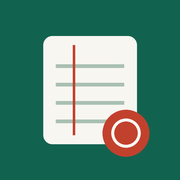
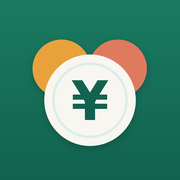
前回の支払方法を自動で選ぶ、金額の足し算、予算80%の警告、新しいアイコンと起動画面、いいね・コメントのお知らせ、グループ目標
Claude-Session: https://claude.ai/code/session_0134b7ufawgALHUwocdjU91r

Changed region(s): [[0.1667, 0.1944, 0.8333, 0.8889]]

diff --git a/app.js b/app.js
@@ -50,6 +50,8 @@ const catOf = (id) => {
   return { id: id || "その他", g: (id || "他").slice(0, 1), c: 8, subs: ["その他"] }; // a friend's own category
 };
 // New records are public unless the user turned the default off in 共有設定.
+// "1200+350" → 1550 (the keypad's + key lets you add several amounts)
+const amtVal = (v) => String(v || "").split("+").reduce((a, t) => a + (Number(t) || 0), 0);
 const defPub = () => true; // every record is shared with the group (except categories set to 「共有しない」)
 const PAYS = ["現金", "クレジットカード", "PayPay", "交通系IC", "電子マネー", "デビット", "口座振替", "その他"];
 const TIME_PRESETS = [["朝", "08:00"], ["昼", "12:30"], ["おやつ", "15:00"], ["夜", "19:00"], ["深夜", "23:00"]];
@@ -238,7 +240,7 @@ function demoStore() {
   const pub = {}, priv = {}, prefs = { me: { budget: 90000, catBudgets: { 食費: 35000, 交通費: 8000, 娯楽: 12000, 日用品: 6000 }, noSpend: [],
     favs: [{ c: "食費", s: "昼ごはん", m: "", sh: "社食", a: 450, p: "現金" }, { c: "交通費", s: "電車", m: "", sh: "JR", a: 0, p: "交通系IC" }, { c: "食費", s: "カフェ", m: "", sh: "スターバックス", a: 0, p: "PayPay" }] } };
   const share = { me: { defaultPublic: true, hiddenCats: ["健康・医療"], blocked: [] } };
-  const reactions = {};
+  const reactions = {}, goals = {}, inbox = { me: [] };
   const T = [
     ["食費", "スーパー・食料品", ["ライフ", "イオン", "業務スーパー"], [800, 4200], ["クレジットカード", "PayPay"]],
     ["食費", "コンビニ", ["セブン-イレブン", "ローソン", "ファミリーマート"], [150, 900], ["PayPay", "交通系IC"]],
@@ -270,6 +272,7 @@ function demoStore() {
       if (k === 0 ? tday >= 25 : true) priv[uid].push({ id: "s" + n++, date: `${ymKey(ym)}-${pad(Math.min(days, 25))}`, time: "10:00", amount: 210000 + Math.round(R() * 30) * 1000, category: "給与", sub: "給料", shop: "", memo: "", pay: "", type: "income", t: n });
     }
   };
+  setTimeout(() => { const e = pub.me[pub.me.length - 3]; if (e) inbox.me.push({ id: "n0", from: "ken", eid: e.id, kind: "comment", text: "それ美味しいよね！", at: Date.now() - 3600e3 }, { id: "n1", from: "sakura", eid: e.id, kind: "like", text: "", at: Date.now() - 600e3 }); }, 0);
   gen("me", 1); gen("sakura", 1.1); gen("ken", .8); gen("mama", .9);
   priv.me.push({ id: "p1", date: today(), time: "21:30", amount: 3000, category: "娯楽", sub: "ゲーム", shop: "", memo: "ゲーム課金", pay: "クレジットカード", type: "expense", t: 1 });
   const L = new Set(); const bump = () => L.forEach(f => f());
@@ -295,6 +298,11 @@ function demoStore() {
     async getReactions(owner, eid) { return clone(Object.entries(reactions[owner + "/" + eid] || {}).map(([uid, r]) => ({ uid, ...r }))); },
     async setReaction(owner, eid, uid, data) { const k = owner + "/" + eid; reactions[k] = reactions[k] || {}; reactions[k][uid] = { ...data, at: Date.now() }; },
     async deleteReaction(owner, eid, uid) { delete (reactions[owner + "/" + eid] || {})[uid]; },
+    watchInbox(uid, cb) { return watch(() => cb(clone(inbox[uid] || []))); },
+    async notify(owner, data) { (inbox[owner] = inbox[owner] || []).push({ id: "n" + Date.now(), ...data, at: Date.now() }); bump(); },
+    async clearInbox(uid, ids) { inbox[uid] = (inbox[uid] || []).filter(n => !ids.includes(n.id)); bump(); },
+    watchGoal(code, ym, cb) { return watch(() => cb(goals[code + "/" + ym] ? clone(goals[code + "/" + ym]) : null)); },
+    async setGoal(code, ym, uid, amount) { if (amount) goals[code + "/" + ym] = { amount, by: uid, at: Date.now() }; else delete goals[code + "/" + ym]; bump(); },
     async getGroup(code) { return groups[code] ? { name: groups[code].name } : null; },
     async createGroup(uid, name) { const c = newCode(); groups[c] = { name, members: [uid] }; users[uid].groups.push(c); users[uid].current = c; bump(); return c; },
     async joinGroup(uid, code) { if (!groups[code]) { const e = new Error(); e.code = "not_found"; throw e; } if (!groups[code].members.includes(uid)) groups[code].members.push(uid); if (!users[uid].groups.includes(code)) users[uid].groups.push(code); users[uid].current = code; bump(); },
@@ -327,7 +335,7 @@ async function firebaseStore() {
   const setKeep = (keep) => A.setPersistence(auth, keep ? A.indexedDBLocalPersistence : A.browserSessionPersistence).catch(() => A.setPersistence(auth, keep ? A.browserLocalPersistence : A.browserSessionPersistence));
   let db;
   try { db = F.initializeFirestore(app, { localCache: F.persistentLocalCache() }); } catch { db = F.getFirestore(app); }
-  const { doc, collection, getDoc, getDocs, setDoc, updateDoc, deleteDoc, addDoc, onSnapshot, query, where, serverTimestamp, arrayUnion, arrayRemove, writeBatch } = F;
+  const { doc, collection, getDoc, getDocs, setDoc, updateDoc, deleteDoc, addDoc, onSnapshot, query, where, limit, serverTimestamp, arrayUnion, arrayRemove, writeBatch } = F;
   const uRef = (uid) => doc(db, "users", uid);
   const gRef = (code) => doc(db, "groups", code);
   const mRef = (code, uid) => doc(db, "groups", code, "members", uid);
@@ -362,6 +370,12 @@ async function firebaseStore() {
     async getReactions(owner, eid) { return (await getDocs(rCol(owner, eid))).docs.map(d => ({ uid: d.id, ...d.data(), at: d.data().at?.toMillis?.() || 0 })); },
     async setReaction(owner, eid, uid, data) { await setDoc(doc(rCol(owner, eid), uid), { ...data, at: serverTimestamp() }); },
     async deleteReaction(owner, eid, uid) { await deleteDoc(doc(rCol(owner, eid), uid)); },
+    // likes/comments you received (only you can read them; they are deleted once you have seen them)
+    watchInbox(uid, cb) { return onSnapshot(query(collection(db, "users", uid, "inbox"), limit(50)), s => cb(s.docs.map(d => ({ id: d.id, ...d.data(), at: d.data().at?.toMillis?.() || Date.now() }))), () => cb([])); },
+    async notify(owner, data) { await addDoc(collection(db, "users", owner, "inbox"), { ...data, at: serverTimestamp() }); },
+    async clearInbox(uid, ids) { const b = writeBatch(db); ids.slice(0, 450).forEach(id => b.delete(doc(db, "users", uid, "inbox", id))); await b.commit(); },
+    watchGoal(code, ym, cb) { return onSnapshot(doc(db, "groups", code, "goals", ym), s => cb(s.exists() ? s.data() : null), () => cb(null)); },
+    async setGoal(code, ym, uid, amount) { const r = doc(db, "groups", code, "goals", ym); if (amount) await setDoc(r, { amount, by: uid, at: serverTimestamp() }); else await deleteDoc(r); },
     async getGroup(code) { const g = await getDoc(gRef(code)); return g.exists() ? g.data() : null; },
     async createGroup(uid, name) {
       for (let i = 0; i < 3; i++) {
@@ -705,9 +719,18 @@ function onSignedIn(user) {
     S.prefsLoaded = true; runRecurring(); queueRender();
   });
   S.subs.share = S.store.watchShare(user.uid, (p) => { S.share = p || {}; queueRender(); });
+  S.inbox = []; S.inboxToasted = new Set();
+  S.subs.inbox = S.store.watchInbox(user.uid, (l) => {
+    S.inbox = l.sort((a, b) => b.at - a.at);
+    const fresh = S.inbox.filter(n => !S.inboxToasted.has(n.id));
+    fresh.forEach(n => S.inboxToasted.add(n.id));
+    updateBell();
+    if (fresh.length) setTimeout(() => toast(fresh.length === 1 ? inboxText(fresh[0]) : `いいね・コメントが${fresh.length}件届いています`, { action: { label: "見る", fn: inboxSheet } }), 1200);
+  });
   askPublishOld(user.uid);
 }
 function onSignedOut() {
+  S.subs.inbox?.(); S.subs.goal?.(); S.subs.goal = null; S.goalKey = null; S.inbox = []; updateBell();
   S.subs.me?.(); S.subs.prefs?.(); S.subs.share?.(); unsubAll(S.subs.group); stopData(); S.cache = {}; S.recurDone = false;
   Object.values(S.personSubs).forEach(f => f()); S.personSubs = {};
   Object.assign(S, { user: null, me: null, prefs: {}, share: {}, code: null, group: null, groupNames: {}, memberIds: [], people: {}, data: {}, priv: [], loaded: {}, privLoaded: false, denied: {}, viewing: null, nums: {} });
@@ -890,6 +913,19 @@ function renderHome() {
   }
   renderHomeBelow();
 }
+// Budgets that are 80% used or more this month (whole budget and each category budget).
+// `extra` lets the entry screen include the record it is about to save.
+function budgetAlerts(extra = {}) {
+  const cur = inMonth(recordsOf(me()), thisMonth()).filter(isExp), out = [];
+  const addAll = Object.values(extra).reduce((a, b) => a + b, 0);
+  const check = (key, label, budget, used) => {
+    if (!budget) return; const pct = used / budget;
+    if (pct >= .8) out.push({ key, label, pct, left: budget - used, over: pct > 1, level: pct > 1 ? 2 : 1 });
+  };
+  check("_all", "今月", Number(S.prefs.budget || 0), sumOf(cur) + addAll);
+  Object.entries(S.prefs.catBudgets || {}).forEach(([c, b]) => check(c, c, Number(b), sumOf(cur.filter(x => x.category === c)) + (extra[c] || 0)));
+  return out.sort((a, b) => b.pct - a.pct);
+}
 function renderHomeBelow() {
   const box = $("s-home").querySelector(".home-below"); if (!box) return;
   const uid = S.viewing, mine = isMe(uid);
@@ -897,6 +933,14 @@ function renderHomeBelow() {
   if (S.denied[uid]) { fill(box, emptyState("表示できません", "この人が閲覧を許可していないため、記録は見られません。", null, "lock")); return; }
   const st = monthStats(uid, S.ym), recent = sortEntries(recordsOf(uid)).filter(x => x.date <= ymKey(S.ym) + "-31").slice(0, 6);
   const kids = [];
+  if (mine && ymKey(S.ym) === ymKey(thisMonth())) {
+    const al = budgetAlerts();
+    if (al.length) kids.push(h("button", { type: "button", class: "card alertcard press", onclick: () => go("analysis") },
+      h("span", { class: "ic" }, ic("warn")),
+      h("div", { class: "grow" }, h("strong", null, al.some(a => a.over) ? "予算を超えています" : "予算が残り少なくなっています"),
+        al.slice(0, 3).map(a => h("div", { class: "al" + (a.over ? " over" : "") }, h("span", null, a.key === "_all" ? "今月の予算" : a.label),
+          h("span", { class: "num" }, a.over ? `${yen(-a.left)} オーバー` : `${Math.round(a.pct * 100)}%・残り ${yen(a.left)}`))))));
+  }
   if (mine) {
     // this month's income, spending and what is left
     const bal = st.income - st.spent;
@@ -1004,6 +1048,8 @@ function reactionsBox(x, owner) {
       const next = { like: !!(myR?.like), text: myR?.text || "", ...patch };
       try {
         if (!next.like && !next.text) await S.store.deleteReaction(owner, x.id, me()); else await S.store.setReaction(owner, x.id, me(), { like: next.like, text: next.text.slice(0, 60) });
+        if (patch.like === true) S.store.notify(owner, { from: me(), eid: x.id, kind: "like", text: "" }).catch(() => {});
+        if (patch.text) S.store.notify(owner, { from: me(), eid: x.id, kind: "comment", text: patch.text.slice(0, 60) }).catch(() => {});
         await load(); buzz(6);
       } catch { fail("送れませんでした。通信状態を確認してください"); }
     };
@@ -1329,6 +1375,7 @@ function renderFriends() {
   else if (!friends.length) kids.push(emptyState("まだ友達がいません", "招待コードを送って、友達を呼びましょう。", { label: "友達を招待する", fn: inviteSheet }, "people"));
   else {
     kids.push(h("div", { class: "row" }, h("button", { type: "button", class: "btn press", onclick: inviteSheet }, ic("invite", { width: 18, height: 18 }), " 友達を招待"), h("button", { type: "button", class: "btn press", onclick: shareSheet }, ic("shield", { width: 18, height: 18 }), " 共有設定")));
+    kids.push(goalCard());
     kids.push(...friends.map(uid => friendCard(uid)));
     kids.push(peopleCompare());
   }
@@ -1421,7 +1468,7 @@ function openEntry(edit, preset = {}) {
   const hiddenNow = () => hiddenCats();
   const st = {
     type: edit?.type || "expense", amount: edit ? String(edit.amount) : "", cat: edit?.category || (expCats().some(c => c.id === ls.get("kakeibo.cat")) ? ls.get("kakeibo.cat") : "食費"),
-    sub: edit?.sub || "", date: edit?.date || preset.date || today(), time: edit?.time || "", shop: edit?.shop || "", memo: edit?.memo || "", pay: edit?.pay || "",
+    sub: edit?.sub || "", date: edit?.date || preset.date || today(), time: edit?.time || "", shop: edit?.shop || "", memo: edit?.memo || "", pay: edit ? edit.pay || "" : ls.get("kakeibo.pay") || "",
     pub: true, catTouched: isEdit, fromFav: false, busy: false,
   };
   const catsFor = () => st.type === "income" ? incCats() : expCats();
@@ -1430,7 +1477,7 @@ function openEntry(edit, preset = {}) {
   const saveBtn = h("button", { type: "button", class: "save", id: "saveBtn" }, ic("check", { "stroke-width": 3 }), isEdit ? "更新" : "保存");
   const favRow = h("div", { class: "favrow", "aria-label": "よく使う項目" });
   const keypad = h("div", { class: "keypad", role: "group", "aria-label": "金額の入力" },
-    ["7", "8", "9", ["del", "⌫", "1文字消す"], "4", "5", "6", ["clear", "C", "金額を消す"], "1", "2", "3"].map(k => Array.isArray(k)
+    ["7", "8", "9", ["del", "⌫", "1文字消す（長押しで全部消す）"], "4", "5", "6", ["plus", "+", "足し算"], "1", "2", "3"].map(k => Array.isArray(k)
       ? h("button", { type: "button", class: "fn", "data-k": k[0], "aria-label": k[2] }, k[1]) : h("button", { type: "button", "data-k": k }, k)),
     saveBtn, h("button", { type: "button", class: "zero", "data-k": "0" }, "0"), h("button", { type: "button", "data-k": "00" }, "00"));
   const footer = h("div", { class: "keypad-wrap" }, favRow, keypad);
@@ -1451,9 +1498,12 @@ function openEntry(edit, preset = {}) {
   const amountBtn = h("button", { type: "button", class: "amount", "aria-live": "polite", onclick: () => { st.amount = ""; drawAmount(); } });
   const drawAmount = () => {
     amountBtn.classList.toggle("inc", st.type === "income");
-    fill(amountBtn, h("span", { class: "y" }, st.type === "income" ? "+¥" : "¥"), h("span", { class: "v num" + (st.amount ? "" : " ph") }, st.amount ? Number(st.amount).toLocaleString("ja-JP") : "0"));
-    amountBtn.setAttribute("aria-label", `金額 ${st.amount ? yen(Number(st.amount)) : "未入力"}（タップで消す）`);
-    saveBtn.disabled = !st.amount || st.busy;
+    const total = amtVal(st.amount), expr = st.amount.includes("+");
+    fill(amountBtn, expr ? h("span", { class: "expr num" }, st.amount.split("+").map(t => t ? Number(t).toLocaleString("ja-JP") : "").join(" + ") + " =") : null,
+      h("span", { class: "y" }, st.type === "income" ? "+¥" : "¥"), h("span", { class: "v num" + (total ? "" : " ph") }, total ? total.toLocaleString("ja-JP") : "0"));
+    amountBtn.classList.toggle("hasexpr", expr);
+    amountBtn.setAttribute("aria-label", `金額 ${total ? yen(total) : "未入力"}${expr ? "（" + st.amount.replace(/\+/g, "たす") + "）" : ""}（タップで消す）`);
+    saveBtn.disabled = !total || st.busy;
   };
   const draw = () => {
     const cats = catsFor();
@@ -1505,12 +1555,21 @@ function openEntry(edit, preset = {}) {
     const k = b.dataset.k; if (!k) return;
     buzz(4);
     if (k === "del") st.amount = st.amount.slice(0, -1);
-    else if (k === "clear") st.amount = "";
-    else { if (st.fromFav) st.amount = ""; if (st.amount.length < 8) st.amount = (st.amount + k).replace(/^0+/, ""); }
+    else if (k === "plus") { if (st.amount && !st.amount.endsWith("+") && st.amount.split("+").length < 10) st.amount += "+"; }
+    else {
+      if (st.fromFav) st.amount = "";
+      const parts = st.amount.split("+"), last = parts.pop();
+      if (last.length < 8) st.amount = [...parts, (last + k).replace(/^0+/, "")].join("+");
+    }
     st.fromFav = false; drawAmount();
   });
+  // long-press ⌫ clears the whole amount
+  { const del = keypad.querySelector('[data-k="del"]'); let lp;
+    del.addEventListener("pointerdown", () => { lp = setTimeout(() => { st.amount = ""; st.fromFav = false; buzz(12); drawAmount(); lp = "done"; }, 550); });
+    ["pointerup", "pointerleave", "pointercancel"].forEach(ev => del.addEventListener(ev, () => { if (lp !== "done") clearTimeout(lp); }));
+    del.addEventListener("click", (e) => { if (lp === "done") { e.stopPropagation(); lp = null; } }, true); }
   const save = async () => {
-    const amount = Number(st.amount);
+    const amount = amtVal(st.amount);
     if (!amount) { amountBtn.classList.remove("bad"); void amountBtn.offsetWidth; amountBtn.classList.add("bad"); warn("金額を入力してください"); return; }
     if (amount > 99999999) { warn("金額が大きすぎます。入力内容を確認してください"); return; }
     st.shop = shopIn.value.trim(); st.memo = memoIn.value.trim();
@@ -1518,9 +1577,16 @@ function openEntry(edit, preset = {}) {
     const data = { type: st.type, date: st.date, time: st.time || (isEdit ? edit.time || nowHM() : nowHM()), amount, category: st.cat, sub: st.sub, shop: st.shop.slice(0, 40), memo: st.memo.slice(0, 80), pay: st.pay };
     if (edit?.source) data.source = edit.source;
     st.busy = true; drawAmount();
+    const alertsBefore = !isEdit && st.type === "expense" ? budgetAlerts() : null;
     try {
       if (!isEdit) {
+        if (st.type === "expense") ls.set("kakeibo.pay", st.pay || null);
         const id = await S.store.addEntry(me(), data, !pub);
+        if (alertsBefore && data.date.slice(0, 7) === ymKey(thisMonth())) {
+          const after = budgetAlerts({ [st.cat]: amount });
+          const fresh = after.find(a => !alertsBefore.some(b => b.key === a.key && b.level === a.level));
+          if (fresh) setTimeout(() => warn(fresh.over ? `${fresh.label}の予算を超えました（${yen(-fresh.left)}オーバー）` : `${fresh.label}の予算の${Math.round(fresh.pct * 100)}%を使いました（残り${yen(fresh.left)}）`), 400);
+        }
         if (cont) {
           // stay on the page for the next record: keep the date, category and payment, clear the rest
           st.amount = ""; st.shop = ""; st.memo = ""; st.sub = ""; st.busy = false; st.fromFav = false;
@@ -1585,7 +1651,7 @@ function favSheet(st, done) {
   const body = h("div", { class: "stack" });
   const draw = () => {
     const favs = S.prefs.favs || [];
-    const cur = { t: st.type, c: st.cat, s: st.sub, m: (st.memo || "").slice(0, 40), sh: (st.shop || "").slice(0, 40), p: st.pay, a: withAmount ? Number(st.amount) || 0 : 0 };
+    const cur = { t: st.type, c: st.cat, s: st.sub, m: (st.memo || "").slice(0, 40), sh: (st.shop || "").slice(0, 40), p: st.pay, a: withAmount ? amtVal(st.amount) : 0 };
     const exists = favs.some(f => favKey(f) === favKey(cur));
     const line = (f) => h("span", { class: "grow" }, h("strong", null, f.sh || f.m || f.s || f.c), h("small", null, [catLabel({ category: f.c, sub: f.s }), f.p, f.a ? yen(f.a) : ""].filter(Boolean).join("・")));
     fill(body, 
@@ -1856,6 +1922,83 @@ function askPublishOld(uid) {
   }, 700);
 }
 
+/* ================= notifications (likes & comments) ================= */
+function inboxText(n) {
+  const e = recordsOf(me()).find(x => x.id === n.eid);
+  const what = e ? `「${titleOf(e)} ${yen(e.amount)}」` : "あなたの記録";
+  return n.kind === "like" ? `${nameOf(n.from)}さんが${what}にいいねしました` : `${nameOf(n.from)}さんが${what}にコメント：${n.text}`;
+}
+function updateBell() {
+  const b = $("menuBtn"); if (!b) return;
+  const n = (S.inbox || []).length;
+  b.querySelector(".dot")?.remove();
+  if (n) b.append(h("span", { class: "dot", "aria-hidden": "true" }, n > 9 ? "9+" : String(n)));
+  b.setAttribute("aria-label", n ? `メニューを開く（お知らせ${n}件）` : "メニューを開く");
+  refreshDrawer();
+}
+function inboxSheet() {
+  const shown = (S.inbox || []).slice();
+  const handle = openSheet(h("div", { class: "stack" }, h("div", { class: "head" }, h("h2", null, "お知らせ")),
+    shown.length ? h("div", { class: "card", style: "padding:4px 14px" }, shown.map(n => {
+      const e = recordsOf(me()).find(x => x.id === n.eid);
+      return h("button", { type: "button", class: "row rcrow press", style: "width:100%;border:none;background:none;text-align:left", onclick: () => { if (e) { closeSheet(handle); detailSheet(e, me()); } } },
+        avatar(n.from, 32), h("div", { class: "grow" }, h("span", null, n.kind === "like" ? "❤ " : "💬 ", inboxText(n)), h("small", { class: "help", style: "display:block" }, agoLabel(n.at))));
+    })) : emptyState("お知らせはありません", "友達があなたの記録にいいねやコメントをすると、ここに届きます。", null, "heart"),
+    shown.length ? h("p", { class: "help", style: "text-align:center" }, "見たお知らせは、閉じると消えます。") : null), { label: "お知らせ",
+    onClose: () => { const ids = shown.map(n => n.id); if (ids.length) S.store.clearInbox(me(), ids).catch(() => {}); } });
+}
+function agoLabel(t) {
+  const m = Math.round((Date.now() - t) / 60000);
+  return m < 1 ? "たった今" : m < 60 ? `${m}分前` : m < 1440 ? `${Math.round(m / 60)}時間前` : `${Math.round(m / 1440)}日前`;
+}
+
+/* ================= group goal ================= */
+// One spending goal per group and month ("1人 ¥X まで"), shared by the members. Progress uses public records only.
+function syncGoal() {
+  const key = S.code ? S.code + "|" + ymKey(S.ym) : null;
+  if (key === S.goalKey) return;
+  S.subs.goal?.(); S.subs.goal = null; S.goalKey = key; S.goal = undefined;
+  if (key) S.subs.goal = S.store.watchGoal(S.code, ymKey(S.ym), (g) => { S.goal = g; queueRender(); });
+}
+function goalCard() {
+  syncGoal();
+  const g = S.goal;
+  if (g === undefined) return skCard(90);
+  const setBtn = h("button", { type: "button", class: "btn small press", onclick: goalSheet }, g ? "変更" : "目標を決める");
+  if (!g) return h("div", { class: "card" }, h("div", { style: "display:flex;justify-content:space-between;align-items:center;gap:8px" },
+    h("div", null, h("p", { class: "label", style: "margin:0" }, `${S.ym.m}月のグループ目標`), h("small", { class: "help" }, "みんなで「1人いくらまで」を決めて、進み具合を見せ合えます。")), setBtn));
+  const ids = S.memberIds.slice().sort((a, b) => expTotal(inMonth(S.data[a] || [], S.ym)) - expTotal(inMonth(S.data[b] || [], S.ym)));
+  const rows = ids.map(uid => {
+    const used = expTotal(inMonth(S.data[uid] || [], S.ym)), pct = used / g.amount;
+    const bar = h("div", { class: "bar" + (pct > 1 ? " over" : pct > .8 ? " near" : "") }, h("i"));
+    requestAnimationFrame(() => requestAnimationFrame(() => { bar.firstChild.style.width = Math.min(100, pct * 100) + "%"; }));
+    return h("div", { class: "goalrow" }, avatar(uid, 28), h("div", { class: "grow" },
+      h("div", { class: "h" }, h("strong", null, nameOf(uid) + (isMe(uid) ? "（自分）" : "")), h("span", { class: "num" + (pct > 1 ? " delta-up" : "") }, pct > 1 ? `${yen(used - g.amount)} オーバー` : `残り ${yen(g.amount - used)}`)), bar));
+  });
+  const okN = ids.filter(uid => expTotal(inMonth(S.data[uid] || [], S.ym)) <= g.amount).length;
+  return h("div", { class: "card" },
+    h("div", { style: "display:flex;justify-content:space-between;align-items:center;gap:8px;margin-bottom:6px" },
+      h("div", null, h("p", { class: "label", style: "margin:0" }, `${S.ym.m}月のグループ目標`), h("strong", { class: "num", style: "font-size:1.15rem" }, `1人 ${yen(g.amount)} まで`)), setBtn),
+    h("p", { class: "help", style: "margin-bottom:8px" }, `いま${ids.length}人中${okN}人が目標内です` + (g.by ? `（決めた人：${nameOf(g.by)}）` : "")),
+    rows);
+}
+function goalSheet() {
+  const inp = h("input", { class: "text", id: "goalAmt", inputmode: "numeric", maxlength: 9, placeholder: "例：50000", value: S.goal?.amount ? String(S.goal.amount) : "" });
+  const err = h("div", { class: "err", role: "alert" });
+  let handle;
+  const save = async (amount) => {
+    try { await S.store.setGoal(S.code, ymKey(S.ym), me(), amount); closeSheet(handle); ok(amount ? "グループ目標を決めました" : "グループ目標を消しました"); }
+    catch { err.textContent = "保存できませんでした。通信状態を確認してください"; }
+  };
+  handle = openSheet(h("form", { class: "stack", onsubmit: (e) => { e.preventDefault(); const a = Number(String(inp.value).replace(/[^0-9]/g, "")); if (!a) { err.textContent = "金額を入れてください"; return; } save(a); } },
+    h("div", { class: "head" }, h("h2", null, `${S.ym.m}月のグループ目標`)),
+    h("p", { class: "help" }, `「${S.groupNames[S.code] || "グループ"}」のみんなで、今月1人いくらまでにするかを決めます。メンバーの誰でも変更できます。`),
+    inp, err,
+    h("button", { type: "submit", class: "btn primary press" }, "決める"),
+    S.goal ? h("button", { type: "button", class: "btn press", onclick: () => save(0) }, "目標を消す") : null), { label: "グループ目標" });
+  setTimeout(() => inp.focus(), 250);
+}
+
 /* ================= fixed costs (recurring) ================= */
 // Each item makes one record per month on its day. Ids are fixed per month (rc_<item>_<yyyymm>),
 // so opening the app on two phones never makes the same record twice.
@@ -2082,6 +2225,7 @@ function refreshDrawer(force) {
     S.code ? [mi("invite", "このグループに友達を招待", inviteSheet), mi("leave", "このグループを抜ける", leaveSheet)] : null,
     h("h3", null, "記録"),
     mi("shield", "共有設定", shareSheet), mi("star", "よく使う項目", () => favSheet({ type: "expense", cat: "食費", sub: "", memo: "", shop: "", pay: "", amount: "" })), mi("budget", "予算", budgetSheet),
+    mi("heart", "お知らせ", inboxSheet, (S.inbox || []).length ? h("span", { class: "count" }, String(S.inbox.length)) : null),
     mi("repeat", "固定費・毎月の収入", recurringSheet), mi("tag", "カテゴリの編集", catEditSheet),
     mi("paypay", "PayPayの履歴を取り込む", importSheet), mi("csv", "CSVで保存", exportCSV),
     h("h3", null, "設定"),

diff --git a/index.html b/index.html
@@ -455,6 +455,23 @@ input[type=search]::-webkit-search-cancel-button, input[type=search]::-webkit-se
 .entry .amount .y { font-size: 1.2rem; color: var(--muted); font-weight: 600; }
 .entry .amount .v { font-size: 2.3rem; font-weight: 700; letter-spacing: -.02em; line-height: 1.1; overflow-wrap: anywhere; }
 .entry .amount .v.ph { color: var(--line); }
+.entry .amount .expr { margin-right: auto; align-self: center; font-size: .82rem; color: var(--muted); font-weight: 600; white-space: nowrap; overflow: hidden; text-overflow: ellipsis; min-width: 0; }
+.keypad button[data-k="plus"] { font-size: 1.5rem; color: var(--brand); }
+#menuBtn { position: relative; }
+#menuBtn .dot { position: absolute; top: 3px; right: 1px; min-width: 17px; height: 17px; padding: 0 4px; border-radius: 9px; background: var(--danger); color: #fff; font-size: .62rem; font-weight: 700; display: grid; place-items: center; line-height: 1; }
+.mi .count { margin-left: auto; background: var(--danger); color: #fff; border-radius: 10px; font-size: .7rem; font-weight: 700; padding: 1px 7px; }
+.boot.splash { display: flex; flex-direction: column; align-items: center; justify-content: center; height: 100%; gap: 22px; padding-bottom: 6vh; }
+.boot.splash img { width: 26vw; max-width: 112px; height: auto; border-radius: 22%; box-shadow: var(--sh-2); }
+.boot.splash strong { font-size: 1.35rem; letter-spacing: .02em; }
+.alertcard { display: flex; gap: 12px; align-items: flex-start; text-align: left; width: 100%; border: 1px solid var(--warn); background: var(--warn-soft); }
+.alertcard .ic { width: 34px; height: 34px; border-radius: 10px; background: var(--card); color: var(--warn); display: grid; place-items: center; flex: none; }
+.alertcard .ic svg { width: 20px; height: 20px; }
+.alertcard strong { display: block; margin-bottom: 4px; color: var(--ink); }
+.alertcard .al { display: flex; justify-content: space-between; gap: 8px; font-size: var(--fs-sm); color: var(--ink); }
+.alertcard .al.over .num { color: var(--danger); font-weight: 700; }
+.goalrow { display: flex; gap: 10px; align-items: center; padding: 6px 0; }
+.goalrow .h { display: flex; justify-content: space-between; gap: 8px; font-size: var(--fs-sm); margin-bottom: 4px; }
+.goalrow .bar { height: 8px; }
 .entry .amount.inc .v { color: var(--brand); }
 .entry .amount.bad { animation: shake 300ms var(--ease); }
 .cats { display: grid; grid-template-columns: repeat(5, 1fr); gap: 2px 4px; }
@@ -609,6 +626,16 @@ details.ocrtext pre { white-space: pre-wrap; font-size: .75rem; background: var(
 <meta name="apple-mobile-web-app-status-bar-style" content="default">
 <meta name="apple-mobile-web-app-title" content="家計簿">
 <link rel="apple-touch-icon" href="icons/apple-touch-icon.png">
+<link rel="apple-touch-startup-image" media="(device-width: 375px) and (device-height: 667px) and (-webkit-device-pixel-ratio: 2) and (orientation: portrait)" href="icons/splash/splash-750x1334.png">
+<link rel="apple-touch-startup-image" media="(device-width: 414px) and (device-height: 896px) and (-webkit-device-pixel-ratio: 2) and (orientation: portrait)" href="icons/splash/splash-828x1792.png">
+<link rel="apple-touch-startup-image" media="(device-width: 375px) and (device-height: 812px) and (-webkit-device-pixel-ratio: 3) and (orientation: portrait)" href="icons/splash/splash-1125x2436.png">
+<link rel="apple-touch-startup-image" media="(device-width: 414px) and (device-height: 896px) and (-webkit-device-pixel-ratio: 3) and (orientation: portrait)" href="icons/splash/splash-1242x2688.png">
+<link rel="apple-touch-startup-image" media="(device-width: 390px) and (device-height: 844px) and (-webkit-device-pixel-ratio: 3) and (orientation: portrait)" href="icons/splash/splash-1170x2532.png">
+<link rel="apple-touch-startup-image" media="(device-width: 428px) and (device-height: 926px) and (-webkit-device-pixel-ratio: 3) and (orientation: portrait)" href="icons/splash/splash-1284x2778.png">
+<link rel="apple-touch-startup-image" media="(device-width: 393px) and (device-height: 852px) and (-webkit-device-pixel-ratio: 3) and (orientation: portrait)" href="icons/splash/splash-1179x2556.png">
+<link rel="apple-touch-startup-image" media="(device-width: 430px) and (device-height: 932px) and (-webkit-device-pixel-ratio: 3) and (orientation: portrait)" href="icons/splash/splash-1290x2796.png">
+<link rel="apple-touch-startup-image" media="(device-width: 402px) and (device-height: 874px) and (-webkit-device-pixel-ratio: 3) and (orientation: portrait)" href="icons/splash/splash-1206x2622.png">
+<link rel="apple-touch-startup-image" media="(device-width: 440px) and (device-height: 956px) and (-webkit-device-pixel-ratio: 3) and (orientation: portrait)" href="icons/splash/splash-1320x2868.png">
 <link rel="icon" href="icons/icon-192.png">
 </head>
 <body>
@@ -646,7 +673,7 @@ details.ocrtext pre { white-space: pre-wrap; font-size: .75rem; background: var(
 <div class="toasts" id="toastRoot" role="status" aria-live="polite"></div>
 <div class="sr" id="alertRoot" role="alert" style="position:absolute;width:1px;height:1px;overflow:hidden;clip:rect(0 0 0 0)"></div>
 <input type="file" id="receiptFile" accept="image/*" hidden>
-<div class="full" id="full"><div class="boot"><span class="sk circle" style="width:44px;height:44px"></span></div></div>
+<div class="full" id="full"><div class="boot splash"><img src="icons/icon-192.png" alt="" width="96" height="96"><strong>みんなの家計簿</strong></div></div>
 <script type="module" src="app.js"></script>
 <!--BODY-END-->
 </body>

diff --git a/sw.js b/sw.js
@@ -1,5 +1,5 @@
 // Keeps the app shell available offline. Data itself is cached by Firestore.
-const VERSION = "kakeibo-v16";
+const VERSION = "kakeibo-v17";
 const SHELL = ["./", "index.html", "app.js", "receipt.js", "config.js", "manifest.webmanifest",
   "icons/icon-192.png", "icons/icon-512.png", "icons/apple-touch-icon.png"];
 
